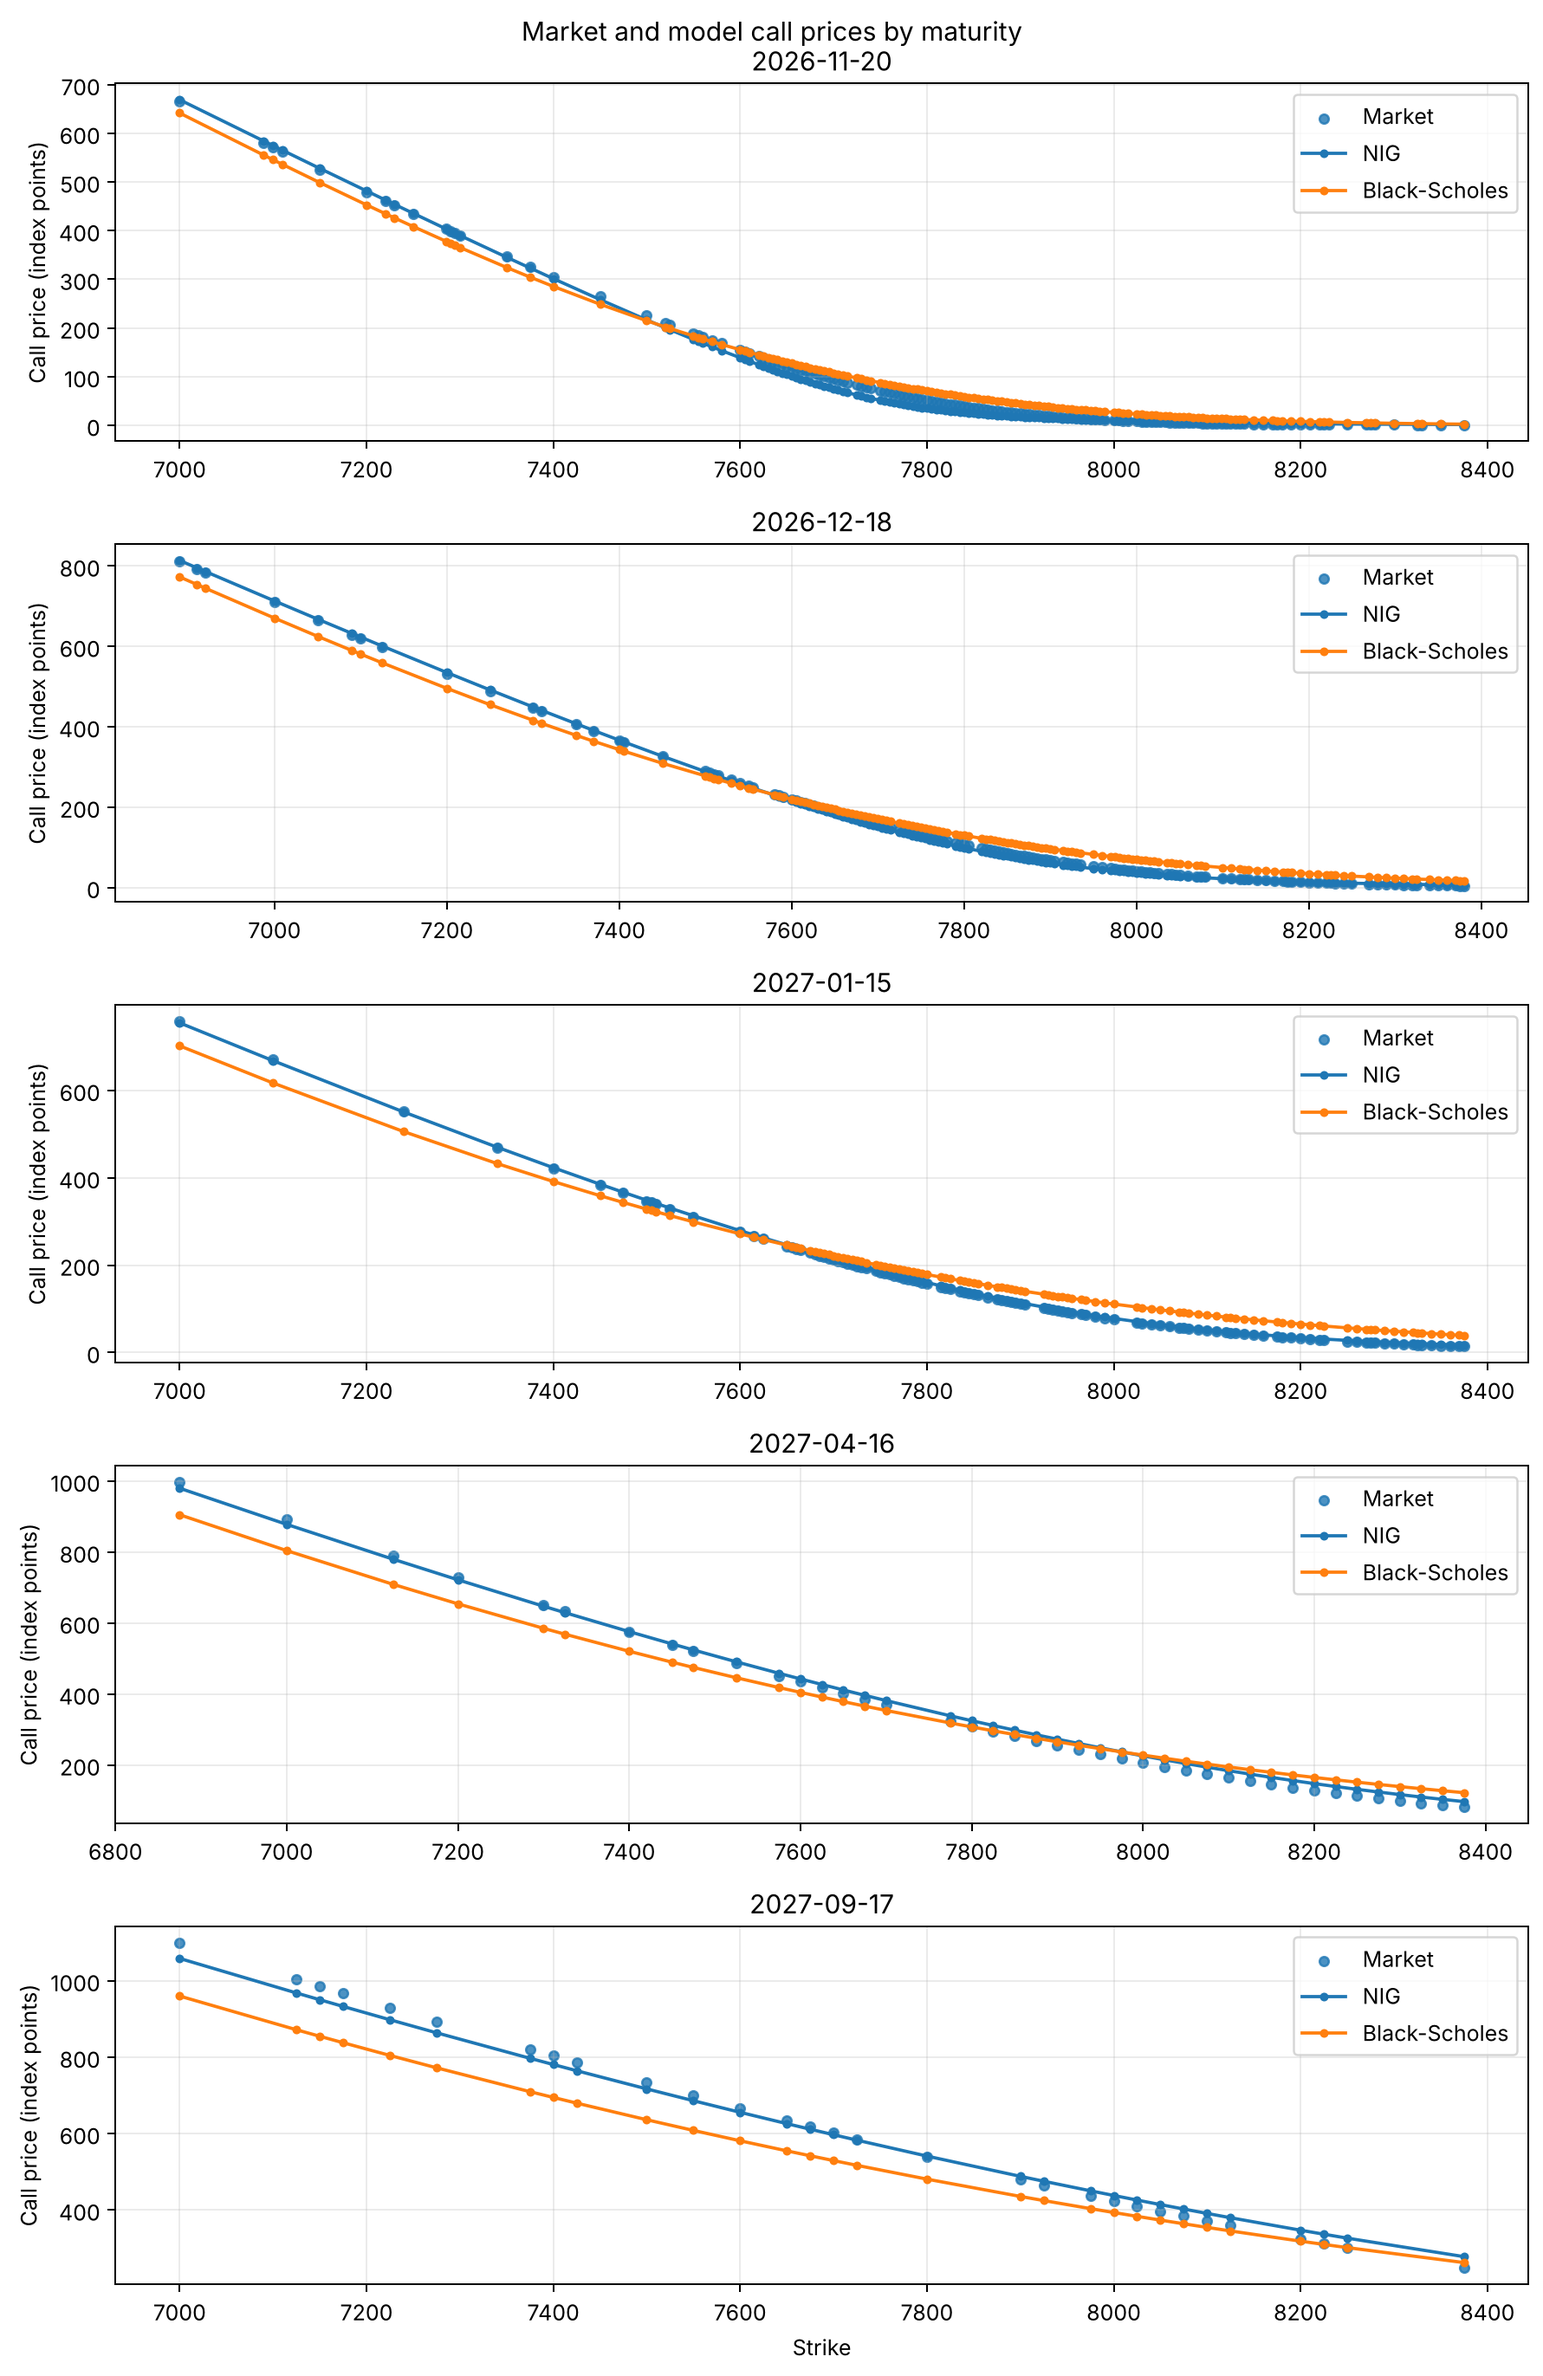
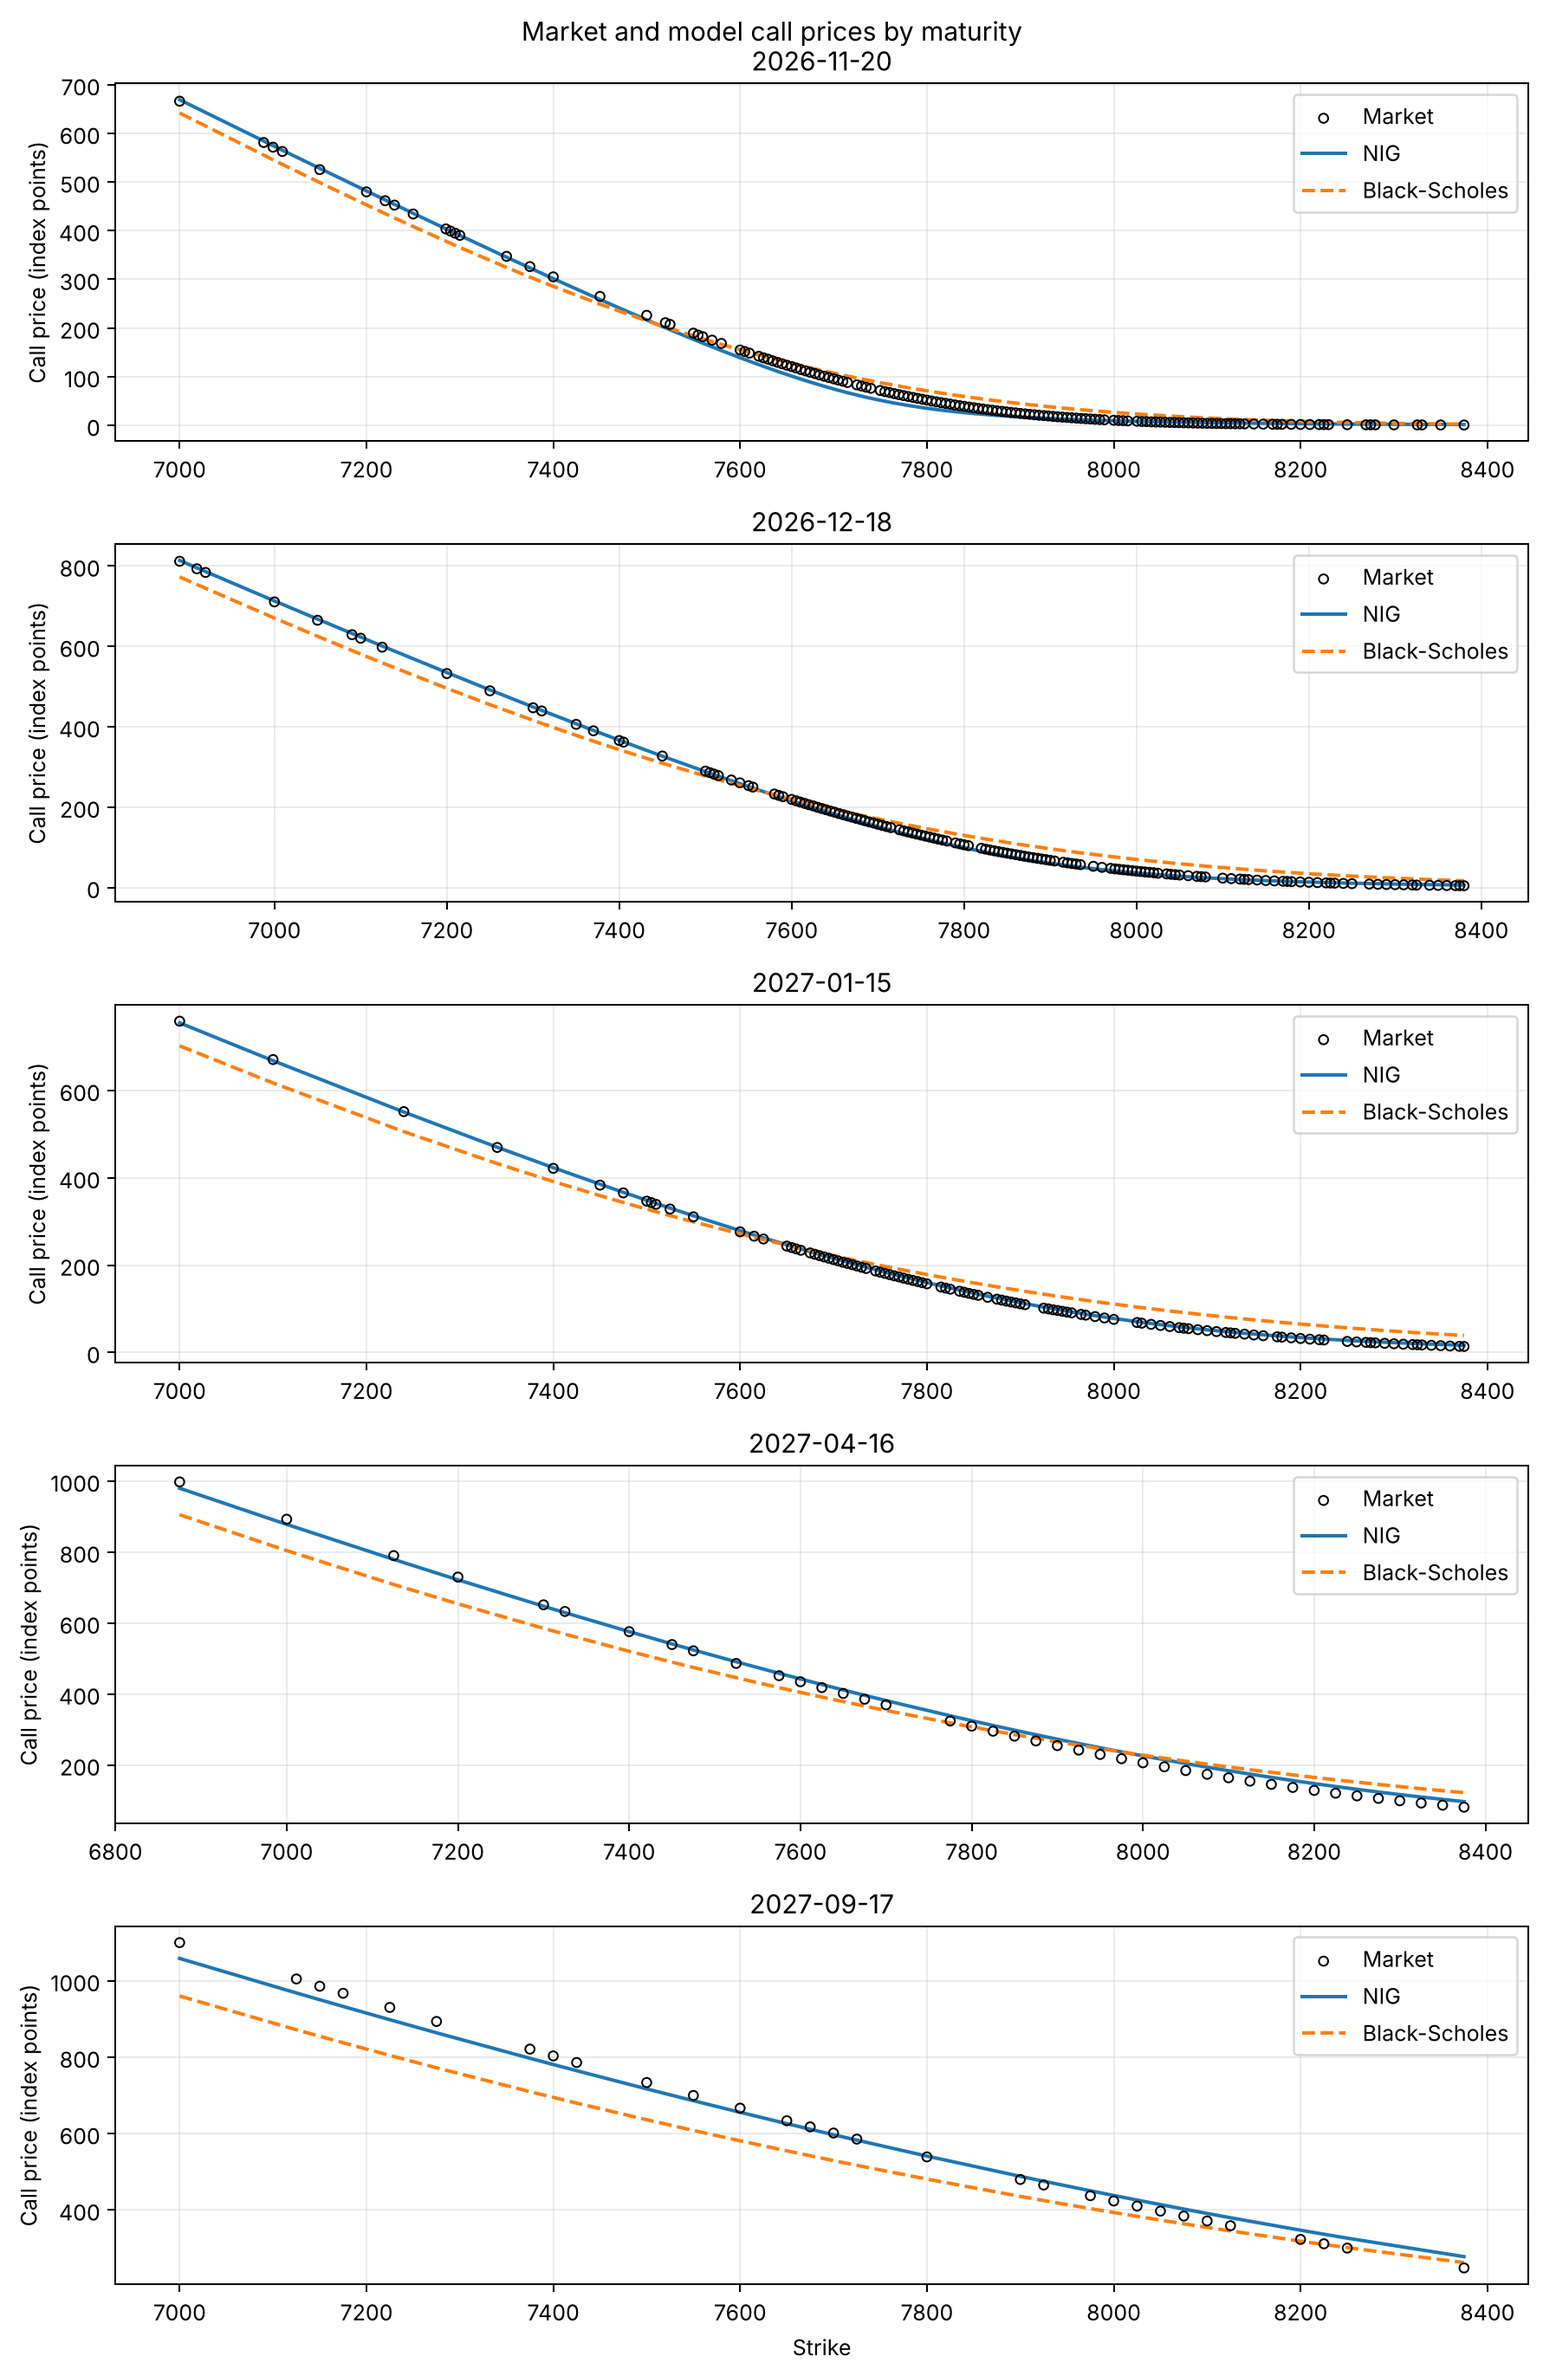
Make market quotes easier to read in the price plot and rerun notebook 03

diff --git a/scripts/plot_calibration_results.py b/scripts/plot_calibration_results.py
@@ -38,9 +38,11 @@ class CalibrationFigureGenerator:
             axes = [axes]
         for axis, expiry in zip(axes, expiries):
             sample = fit.loc[fit["Expiry"] == expiry].sort_values("Strike")
-            axis.scatter(sample["Strike"], sample["Market_Price"], s=18, label="Market", alpha=0.8)
-            axis.plot(sample["Strike"], sample["Model_Price"], marker=".", linewidth=1.5, label="NIG")
-            axis.plot(sample["Strike"], sample["BS_Model_Price"], marker=".", linewidth=1.5, label="Black-Scholes")
+            axis.scatter(sample["Strike"], sample["Market_Price"], s=18, facecolors="none",
+                         edgecolors="black", linewidths=0.8, label="Market", zorder=3)
+            axis.plot(sample["Strike"], sample["Model_Price"], color="tab:blue", linewidth=1.6, label="NIG")
+            axis.plot(sample["Strike"], sample["BS_Model_Price"], color="tab:orange", linewidth=1.6,
+                      linestyle="--", label="Black-Scholes")
             axis.set_title(expiry)
             axis.set_ylabel("Call price (index points)")
             axis.grid(True, alpha=0.25)
